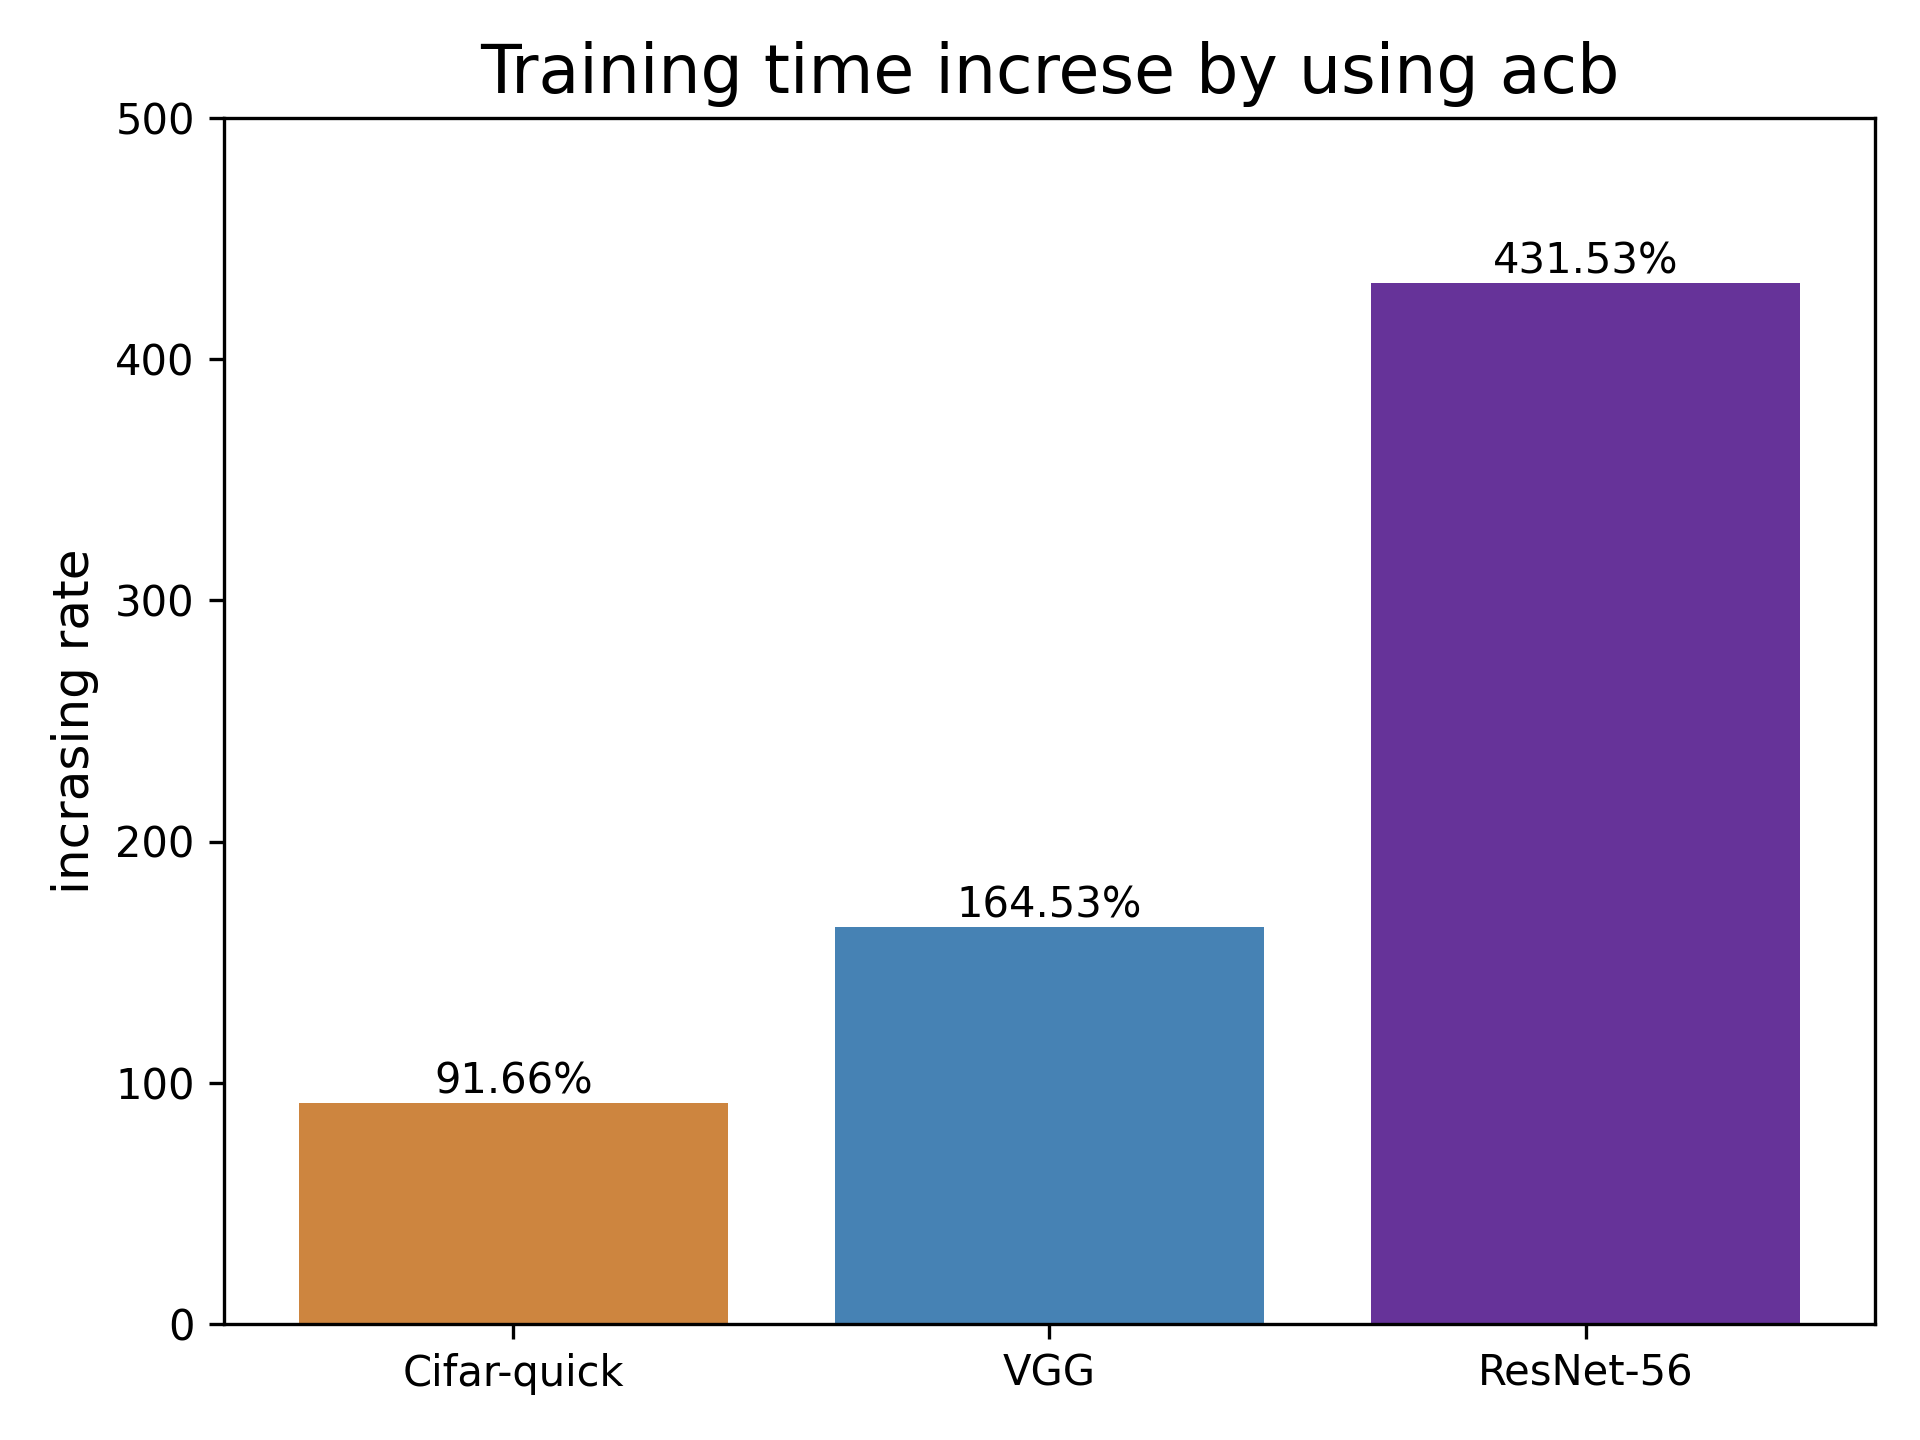
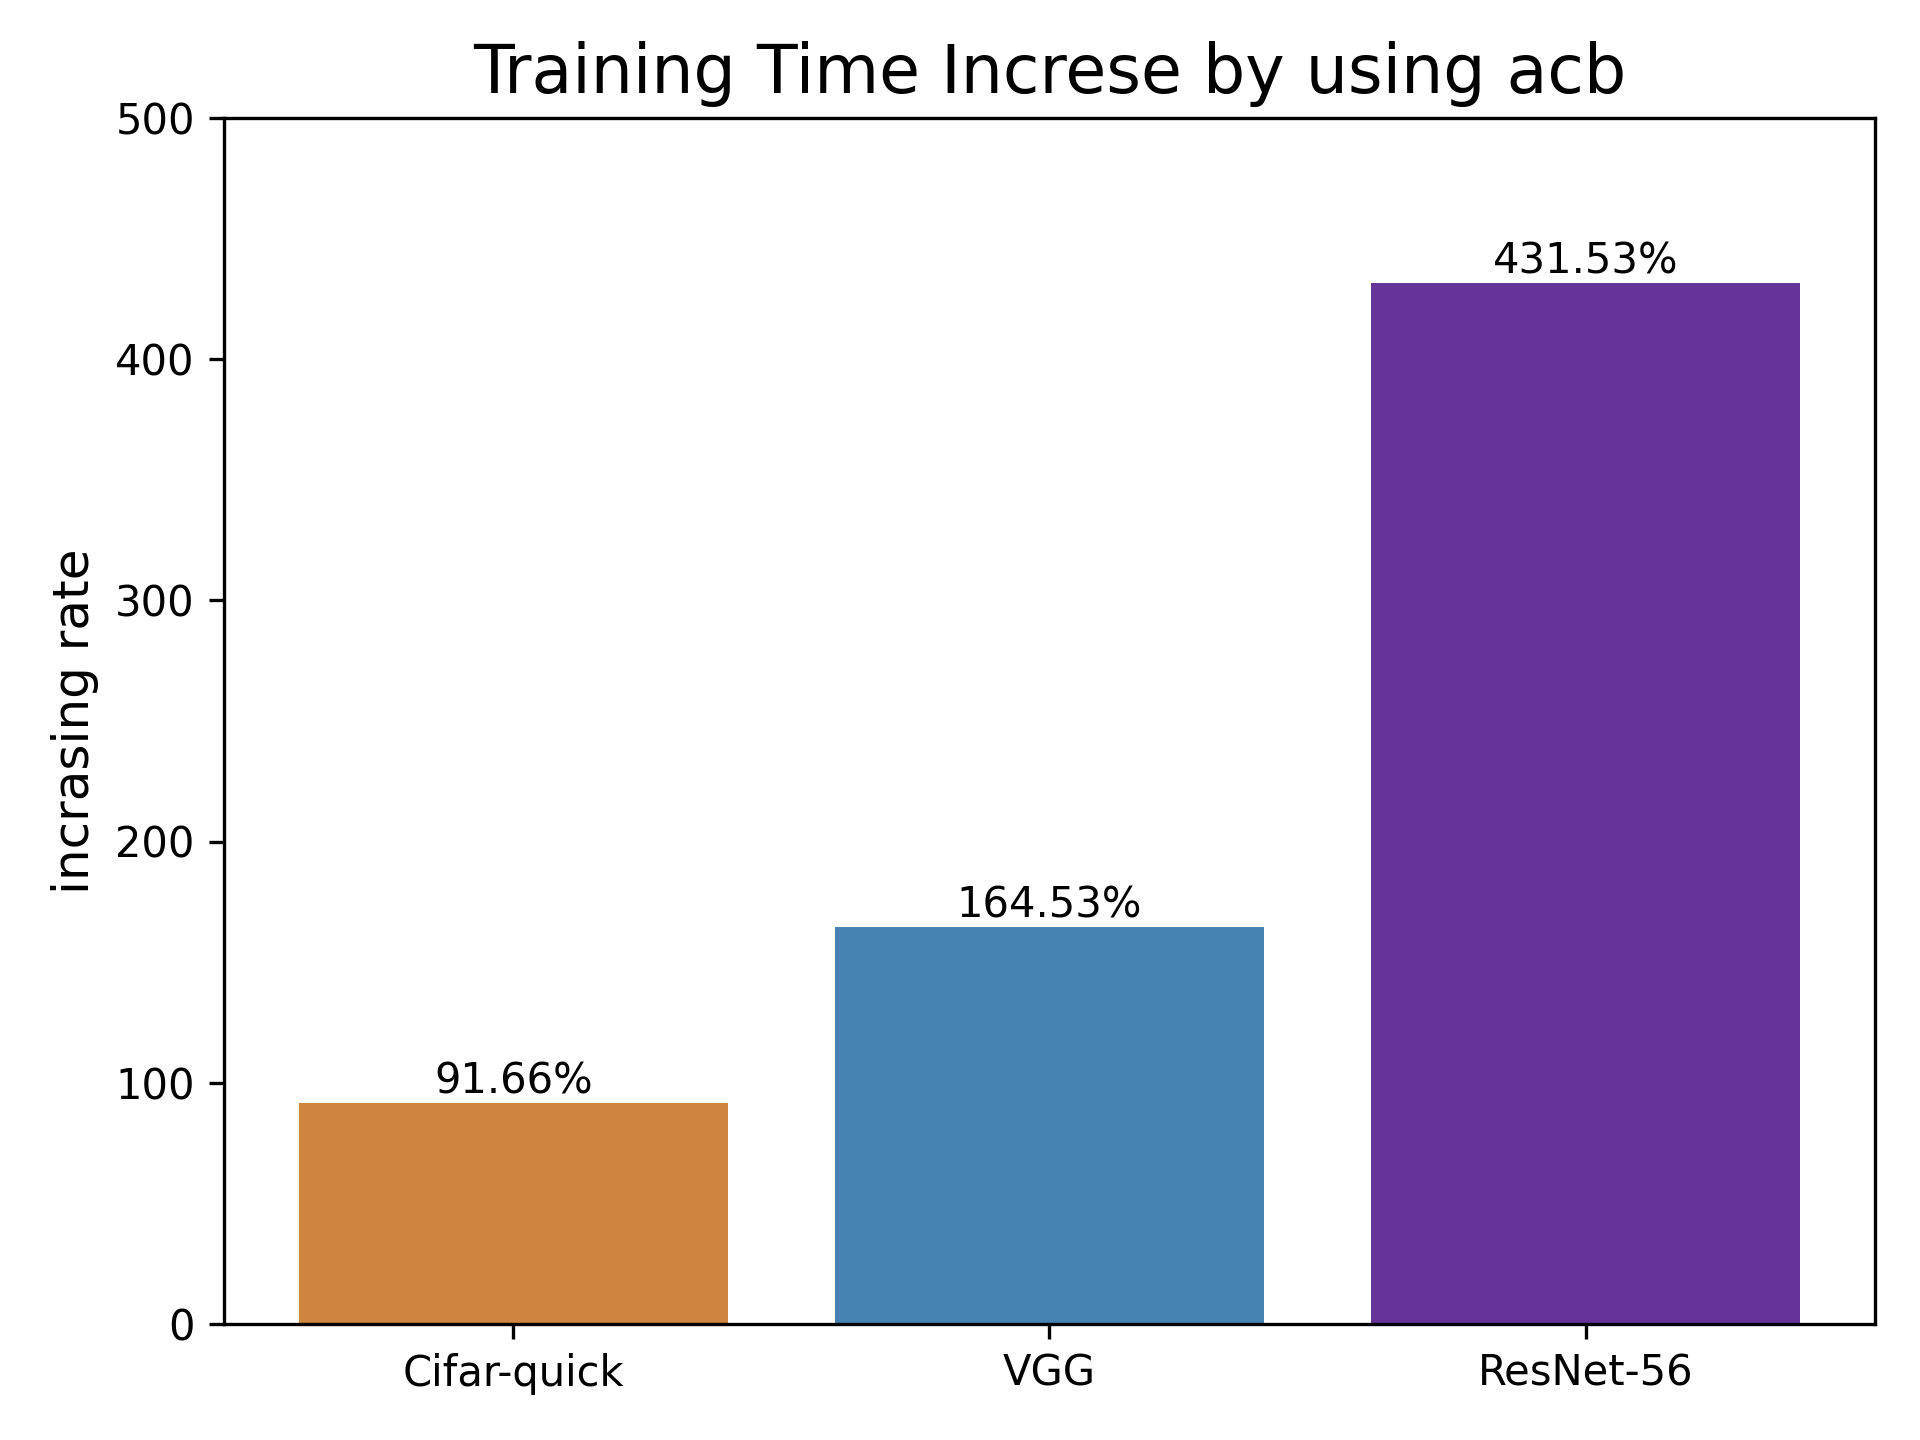
new data

Changed region(s): [[0.25, 0.0312, 0.8438, 0.0938]]

diff --git a/data_analysis.py b/data_analysis.py
@@ -1,5 +1,3 @@
-import pandas as pd
-
 from data_processing import *
 
 # Cifar-quick data
@@ -37,9 +35,9 @@ fig, ax = plt.subplots()
 # Top-1 准确率
 
 plt.axis([0, 150, 0, 100])
-ax.plot(cifarquick_base['epoch'], cifarquick_base['top1'], color='peru', linestyle='--', label="cifar-quick_base")
 ax.plot(cifarquick_acb['epoch'], cifarquick_acb['top1'], '--', label="cifar-quick_acb")
 ax.plot(vgg_acb['epoch'], vgg_acb['top1'], color='g', linestyle='--', label="VGG_acb")
+ax.plot(res56_acb['epoch'], res56_acb['top1'], color='peru', linestyle='--', label="cifar-quick_base")
 ax.set_title("Top-1 Accuracy", fontsize=16)
 plt.ylabel("Accuracy", fontsize=12)
 plt.xlabel("Epoch", fontsize=12)
@@ -50,9 +48,9 @@ fig.show()
 # Top-5 准确率
 fig, ax = plt.subplots()
 plt.axis([0, 150, 50, 100])
-ax.plot(cifarquick_base['epoch'], cifarquick_base['top5'], color='peru', linestyle='--', label="base_top5")
 ax.plot(cifarquick_acb['epoch'], cifarquick_acb['top5'], '--', label="acb_top5")
 ax.plot(vgg_acb['epoch'], vgg_acb['top5'], color='g', linestyle='--', label="VGG_acb")
+ax.plot(res56_acb['epoch'], res56_acb['top5'], color='peru', linestyle='--', label="base_top5")
 ax.set_title("Top-5 Accuracy", fontsize=16)
 plt.xlabel("Epoch", fontsize=12)
 plt.legend(loc='best')
@@ -62,9 +60,9 @@ fig.show()
 # 损失曲线
 fig, ax = plt.subplots()
 plt.axis([0, 150, 0, 3])
-ax.plot(cifarquick_base['epoch'], cifarquick_base['loss'], color='peru', linestyle='--', label="base_loss")
 ax.plot(cifarquick_acb['epoch'], cifarquick_acb['loss'], color='steelblue', linestyle='--', label="acb_loss")
 ax.plot(vgg_acb['epoch'], vgg_acb['loss'], color='g', linestyle='--', label="VGG_acb")
+ax.plot(res56_acb['epoch'], res56_acb['loss'], color='peru', linestyle='--', label="base_loss")
 ax.set_title("Loss", fontsize=16)
 plt.xlabel("Epoch", fontsize=12)
 plt.ylabel("Loss", fontsize=12)
@@ -79,7 +77,7 @@ train_time = [17.8155, 34.1450, 46.97, 124.25, 171.24, 910.2]
 time_increase = [(train_time[1] / train_time[0] - 1) * 100, (train_time[3] / train_time[2] - 1) * 100,
                  (train_time[5] / train_time[4] - 1) * 100]
 ax.bar(models_3, time_increase, color=['peru', 'steelblue', 'rebeccapurple'])
-ax.set_title('Training time increse by using acb', fontsize=16)
+ax.set_title('Training Time Increse by using acb', fontsize=16)
 plt.ylabel('incrasing rate', fontsize=12)
 # 添加数值标签
 for a, b in zip(models_3, time_increase):
@@ -105,28 +103,14 @@ for i in data:
 acb_accuracy.append(np.nan)
 x = np.arange(len(models))
 width = 0.4
-rec1 = ax.bar(x - width / 2, base_accuracy, width, label='base',color = 'steelblue')
-rec2 = ax.bar(x + width / 2, acb_accuracy, width, label='acb',color = 'peru')
+rec1 = ax.bar(x - width / 2, base_accuracy, width, label='base')
+rec2 = ax.bar(x + width / 2, acb_accuracy, width, label='acb')
 plt.ylim(70)
 ax.set_title('Final Top-1 Accuarcy', fontsize=16)
 ax.set_xticks(x)
 ax.set_xticklabels(models)
-
-
-def autolabel(rects):
-	"""Attach a text label above each bar in *rects*, displaying its height."""
-	for rect in rects:
-		height = rect.get_height()
-		ax.annotate('{}'.format(height),
-		xy=(rect.get_x() + rect.get_width() / 2, height),
-		xytext=(0, 3),  # 3 points vertical offset
-		textcoords="offset points",
-		ha='center', va='bottom')
-
-
-autolabel(rec1)
-autolabel(rec2)
-
+autolabel(rec1,ax)
+autolabel(rec2,ax)
 ax.legend()
 save_fig('Final Top-1 Accuracy')
 fig.show()

diff --git a/data_processing.py b/data_processing.py
@@ -31,6 +31,15 @@ def data_preparation(file):
 	data = pd.DataFrame(data=data, index=['epoch', 'top1', 'top5', 'loss'])
 	return data.T
 
+def autolabel(rects,ax):
+	"""Attach a text label above each bar in *rects*, displaying its height."""
+	for rect in rects:
+		height = rect.get_height()
+		ax.annotate('{}'.format(height)+'%',
+		xy=(rect.get_x() + rect.get_width() / 2, height),
+		xytext=(0, 3),  # 3 points vertical offset
+		textcoords="offset points",
+		ha='center', va='bottom')
 
 root_dir = "."
 Folder = "diagram"

diff --git a/123.py b/123.py
@@ -22,6 +22,7 @@ ax.set(ylim=(300, 370))
 ax.set_xticklabels(labels)
 ax.legend()
 
+fig, ax = plt.subplots()
 def autolabel(rects):
     """Attach a text label above each bar in *rects*, displaying its height."""
     for rect in rects:
